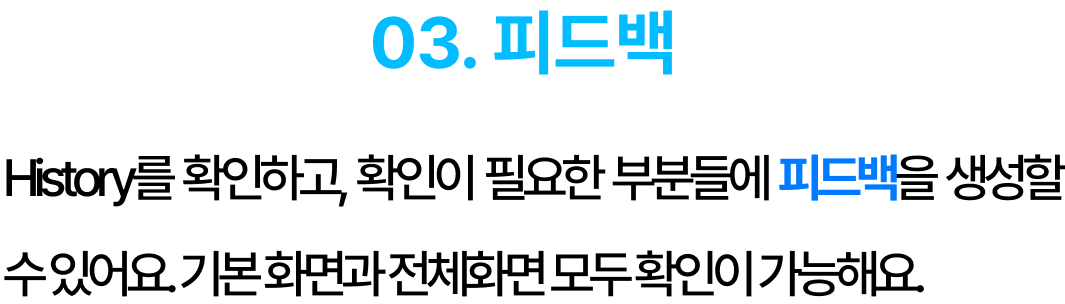
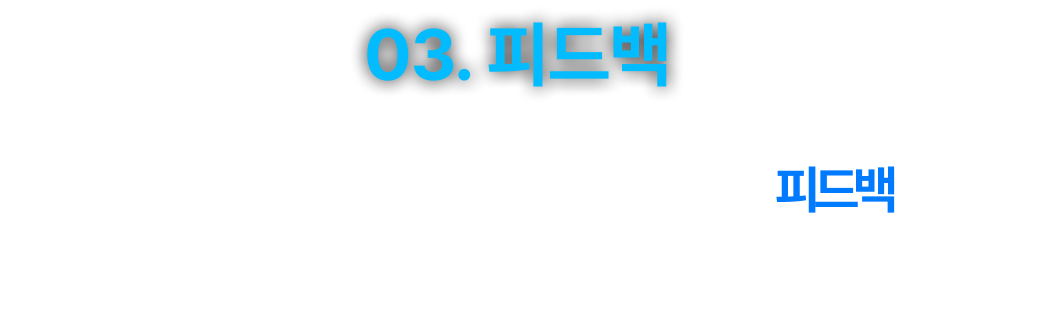
모바일 피드백 섹션 위치 변경

Changed region(s): [[0.0, 0.5033, 1.0, 0.6809], [0.0, 0.8289, 0.8684, 0.977], [0.3102, 0.0296, 0.6513, 0.2961]]

diff --git a/components/mobile/FeedbackScreen.tsx b/components/mobile/FeedbackScreen.tsx
@@ -25,14 +25,14 @@ const FeedbackScreen: React.FC = () => {
   }, []);
 
   return (
-    <div className="relative pb-24">
-      <div className="absolute bottom-0 left-0 w-full h-1/2 bg-[#101E22]" />
+    <div className="relative -mt-[150px] -z-10 bg-[#101E22] pt-[60%] pb-32">
+      {/* <div className="relative -top-64 -z-10 bg-[#101E22] pt-96 sm:pt-60 md:pt-[600px] pb-32"> */}
       <img
         src="/images/feedbackBackground.png"
         alt="feedbackBackground"
-        className="absolute mt-24"
+        className="absolute top-0"
       />
-      <div className="flex flex-col items-center mt-12 px-9 relative">
+      <div className="flex flex-col items-center px-9">
         <div
           className={`flex flex-col w-full items-center gap-10 transition-all duration-700 ${
             isFeedbackVisible

diff --git a/components/mobile/ServiceScreen.tsx b/components/mobile/ServiceScreen.tsx
@@ -48,7 +48,7 @@ const ServiceScreen: React.FC = () => {
         <img
           src="/images/footerBackground.png"
           alt="footerBackground"
-          className="w-full"
+          className="w-full h-[30vh]"
         />
         <div
           className={`absolute left-1/2 top-1/2 transform -translate-x-1/2 -translate-y-1/2 text-white text-center flex flex-col justify-center items-center gap-2 transition-opacity duration-700 ${
